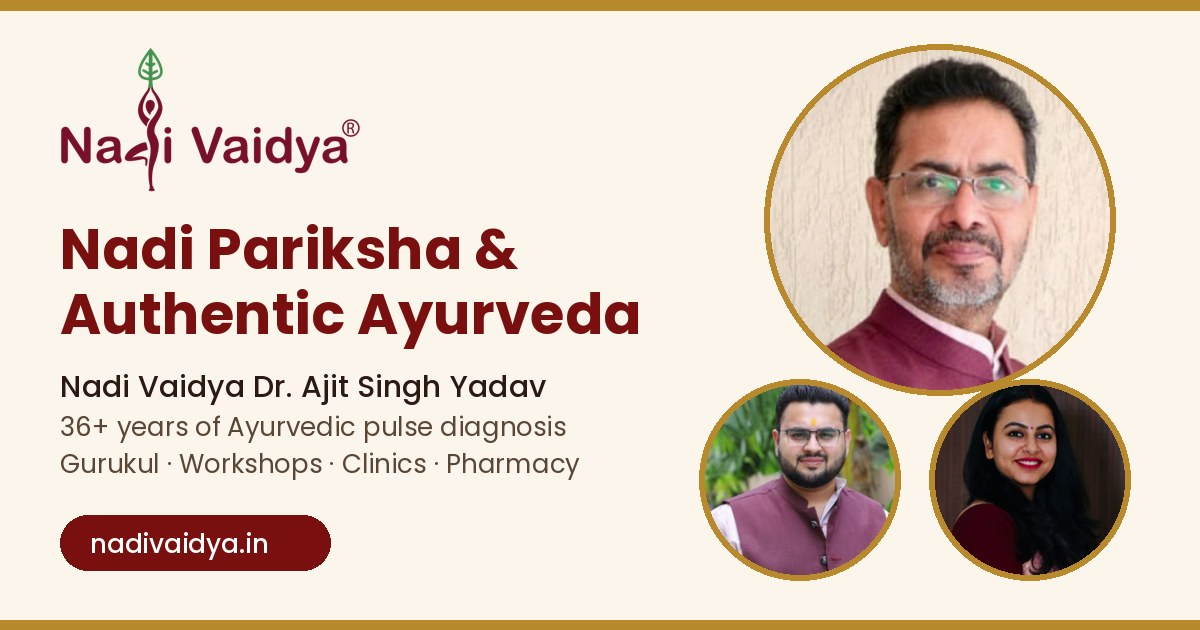
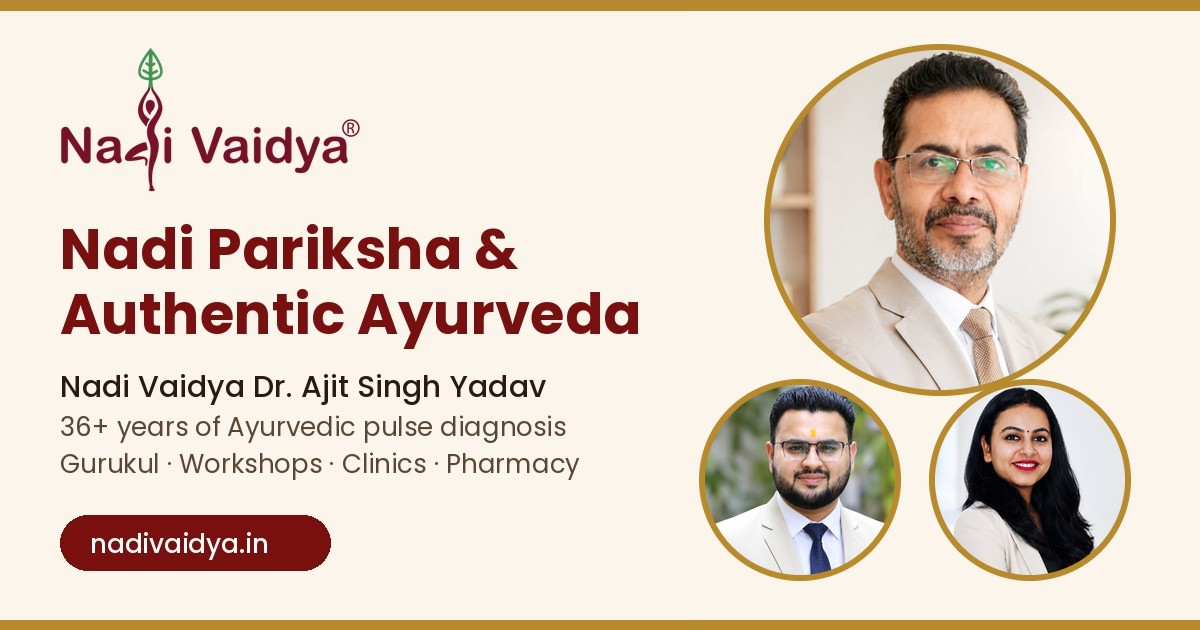
Share preview (og-image): use new doctor photos from the site
Cache-bust image URL with ?v=2 so WhatsApp/Facebook fetch the new one.

Claude-Session: https://claude.ai/code/session_01BLAFPTXhjRoQfXaUvU6rvF

Changed region(s): [[0.5858, 0.0603, 0.9558, 0.9349]]

diff --git a/src/pages/PittaDiet.jsx b/src/pages/PittaDiet.jsx
@@ -263,7 +263,7 @@ export default function PittaDiet() {
 
         <meta
           property="og:image"
-          content="https://www.nadivaidya.in/og-image.jpg"
+          content="https://www.nadivaidya.in/og-image.jpg?v=2"
         />
 
         {/* TWITTER */}
@@ -284,7 +284,7 @@ export default function PittaDiet() {
 
         <meta
           name="twitter:image"
-          content="https://www.nadivaidya.in/og-image.jpg"
+          content="https://www.nadivaidya.in/og-image.jpg?v=2"
         />
 
         {/* STRUCTURED DATA */}

diff --git a/src/pages/VataDiet.jsx b/src/pages/VataDiet.jsx
@@ -210,7 +210,7 @@ export default function VataDiet() {
 
         <meta
           property="og:image"
-          content="https://www.nadivaidya.in/og-image.jpg"
+          content="https://www.nadivaidya.in/og-image.jpg?v=2"
         />
 
         {/* TWITTER */}
@@ -231,7 +231,7 @@ export default function VataDiet() {
 
         <meta
           name="twitter:image"
-          content="https://www.nadivaidya.in/og-image.jpg"
+          content="https://www.nadivaidya.in/og-image.jpg?v=2"
         />
 
         {/* STRUCTURED DATA */}

diff --git a/src/pages/FreeWorkshop.jsx b/src/pages/FreeWorkshop.jsx
@@ -69,7 +69,7 @@ export default function FreeWorkshop() {
 
         <meta
           property="og:image"
-          content="https://www.nadivaidya.in/og-image.jpg"
+          content="https://www.nadivaidya.in/og-image.jpg?v=2"
         />
 
         {/* TWITTER */}
@@ -90,7 +90,7 @@ export default function FreeWorkshop() {
 
         <meta
           name="twitter:image"
-          content="https://www.nadivaidya.in/og-image.jpg"
+          content="https://www.nadivaidya.in/og-image.jpg?v=2"
         />
 
         {/* SCHEMA */}

diff --git a/src/pages/KaphaDiet.jsx b/src/pages/KaphaDiet.jsx
@@ -247,7 +247,7 @@ export default function KaphaDiet() {
 
         <meta
           property="og:image"
-          content="https://www.nadivaidya.in/og-image.jpg"
+          content="https://www.nadivaidya.in/og-image.jpg?v=2"
         />
 
         {/* TWITTER */}
@@ -268,7 +268,7 @@ export default function KaphaDiet() {
 
         <meta
           name="twitter:image"
-          content="https://www.nadivaidya.in/og-image.jpg"
+          content="https://www.nadivaidya.in/og-image.jpg?v=2"
         />
 
         {/* SCHEMA */}

diff --git a/src/pages/Gallery.jsx b/src/pages/Gallery.jsx
@@ -172,7 +172,7 @@ export default function Gallery() {
 
         <meta
           property="og:image"
-          content="https://www.nadivaidya.in/og-image.jpg"
+          content="https://www.nadivaidya.in/og-image.jpg?v=2"
         />
 
         {/* TWITTER */}
@@ -193,7 +193,7 @@ export default function Gallery() {
 
         <meta
           name="twitter:image"
-          content="https://www.nadivaidya.in/og-image.jpg"
+          content="https://www.nadivaidya.in/og-image.jpg?v=2"
         />
 
         {/* SCHEMA */}

diff --git a/index.html b/index.html
@@ -78,7 +78,7 @@
 
     <meta
       property="og:image"
-      content="https://nadivaidya.in/og-image.jpg"
+      content="https://nadivaidya.in/og-image.jpg?v=2"
     />
 
     <meta
@@ -103,7 +103,7 @@
 
     <meta
       name="twitter:image"
-      content="https://nadivaidya.in/og-image.jpg"
+      content="https://nadivaidya.in/og-image.jpg?v=2"
     />
 
     <!-- PERFORMANCE: GOOGLE FONTS -->

diff --git a/src/config/seoConfig.js b/src/config/seoConfig.js
@@ -23,7 +23,7 @@ const seoConfig = {
 
   logo: "https://nadivaidya.in/logo.png",
 
-  defaultImage: "https://nadivaidya.in/og-image.jpg",
+  defaultImage: "https://nadivaidya.in/og-image.jpg?v=2",
 
   favicon: "/favicon.ico",
 

diff --git a/src/pages/SingleBlog.jsx b/src/pages/SingleBlog.jsx
@@ -281,7 +281,7 @@ export default function SingleBlog() {
 
     blog.image ||
 
-    "https://www.nadivaidya.in/og-image.jpg";
+    "https://www.nadivaidya.in/og-image.jpg?v=2";
 
   const blogUrl =
 
